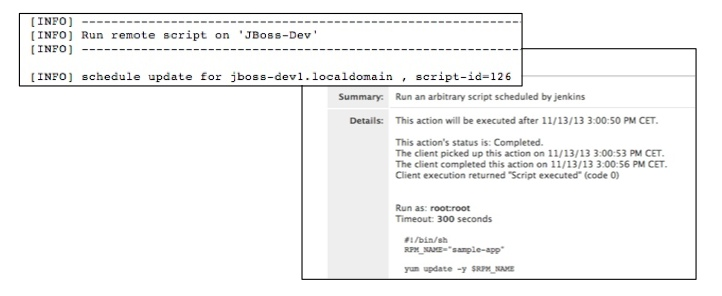
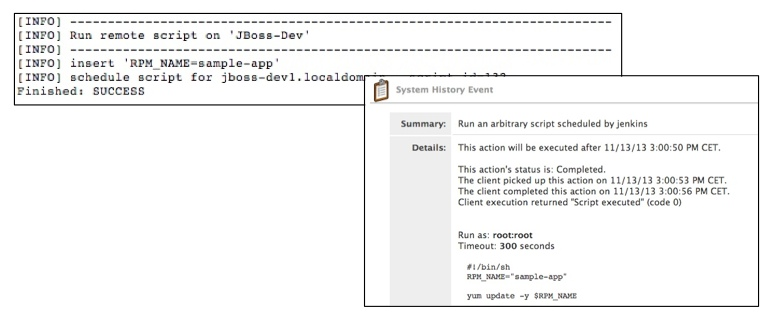
automatic commit

Changed region(s): [[0.0, 0.0304, 1.0, 0.973]]

diff --git a/src/main/java/de/ctrlaltdel/jenkins/plugins/satellite/builder/RemoteScriptBuilder.java b/src/main/java/de/ctrlaltdel/jenkins/plugins/satellite/builder/RemoteScriptBuilder.java
@@ -54,7 +54,7 @@ public class RemoteScriptBuilder extends Builder {
     @Override
     public boolean perform(AbstractBuild<?, ?> build, Launcher launcher, BuildListener listener) throws InterruptedException, IOException {
         logBuild(listener);
-        String runtimeScript = setScriptVariables(build.getBuildVariables());
+        String runtimeScript = setScriptVariables(listener.getLogger(), build.getBuildVariables());
         if (useSSH) {
             for (String host : SatelliteConnection.create().forOneCall().listHosts(group)) {
                 int result = executeSSH(host, listener.getLogger(), runtimeScript);
@@ -71,13 +71,14 @@ public class RemoteScriptBuilder extends Builder {
     /**
      * setScriptVariables
      */
-    private String setScriptVariables(Map<String, String> vars) {
+    private String setScriptVariables(PrintStream ps, Map<String, String> vars) {
         StringBuilder sb = new StringBuilder();
         for (String variable : vars.keySet()) {
             if (variable.startsWith("_")) {
                 continue;
             }
             if (script.contains("$" + variable)) {
+                ps.println("[INFO] insert '" + variable + '=' + vars.get(variable) + '\''); 
                 sb.append(variable + "=\"" + vars.get(variable) + "\"\n");
             }
         }
@@ -105,7 +106,7 @@ public class RemoteScriptBuilder extends Builder {
         PrintStream ps = listener.getLogger();
         ps.println("[INFO] ------------------------------------------------------------------------");
         ps.println("[INFO] Run remote script on '" + group + '\'');
-        ps.println("[INFO] ------------------------------------------------------------------------\n");
+        ps.println("[INFO] ------------------------------------------------------------------------");
     }
 
     /**

diff --git a/src/main/java/de/ctrlaltdel/jenkins/plugins/satellite/SatelliteConnection.java b/src/main/java/de/ctrlaltdel/jenkins/plugins/satellite/SatelliteConnection.java
@@ -318,13 +318,13 @@ public class SatelliteConnection {
 
         Object[] groups = call("systemgroup.listSystems", group);
         List<Integer> systemIds = new ArrayList<Integer>();
-        StringBuilder sb = new StringBuilder("schedule update for ");
+        StringBuilder sb = new StringBuilder("schedule script for ");
         for (Object o : groups) {
             Map<String, Object> system = (Map<String, Object>) o;
             systemIds.add((Integer) system.get("id"));
             sb.append(system.get("hostname")).append(' ');
         }
-        long startTime = new Date().getTime() + 60 * 1000;
+        long startTime = new Date().getTime(); // + 60 * 1000;
         String runScript = script.startsWith("#!/") ? script : "#!/bin/sh\n" + script;
         Integer scriptId = call("system.scheduleScriptRun", systemIds, "root", "root", new Integer(300), runScript, new Date(startTime));
         sb.append(", script-id=").append(scriptId);

diff --git a/README.md b/README.md
@@ -57,17 +57,16 @@ To copy packages between software channel:
 
 - add the build step **Satellite Task**
 
-![image](img/satellite-task.jpg) |
+![image](img/satellite-task.jpg)
 
 - run **Build with parameters**  
 before the build starts, it is now possible to select the package for staging
 
-![image](img/staging-build.jpg) |
+![image](img/staging-build.jpg) 
 
 - the selected packet should be copied to the target channel
 
-![image](img/staging-success.jpg) |
-
+![image](img/staging-success.jpg) 
   
  
 
@@ -121,6 +120,6 @@ Here is an example to run an build step standalone or after an **Satellite Push*
 
 
 
-
+Have fun, Daniel !
 
 
